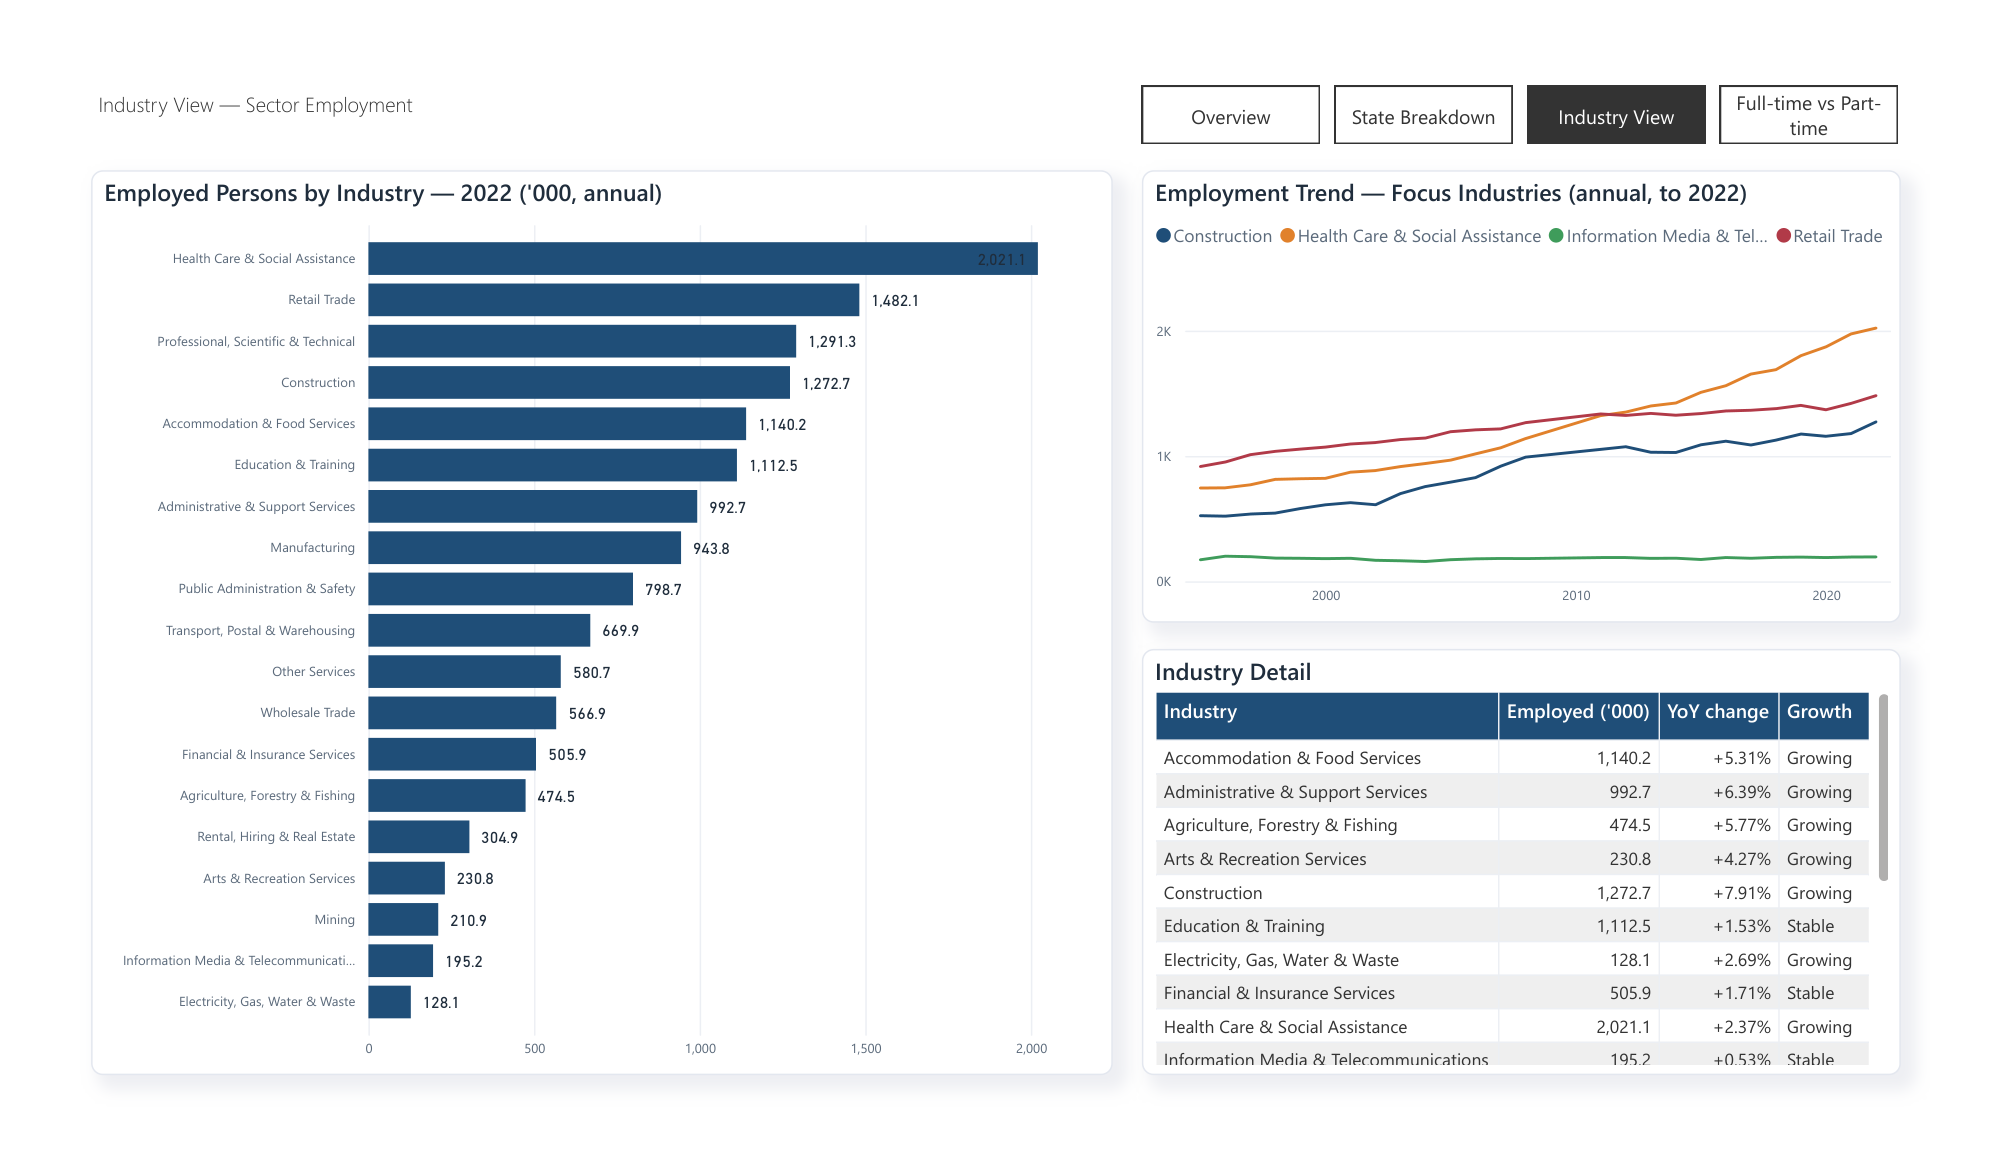
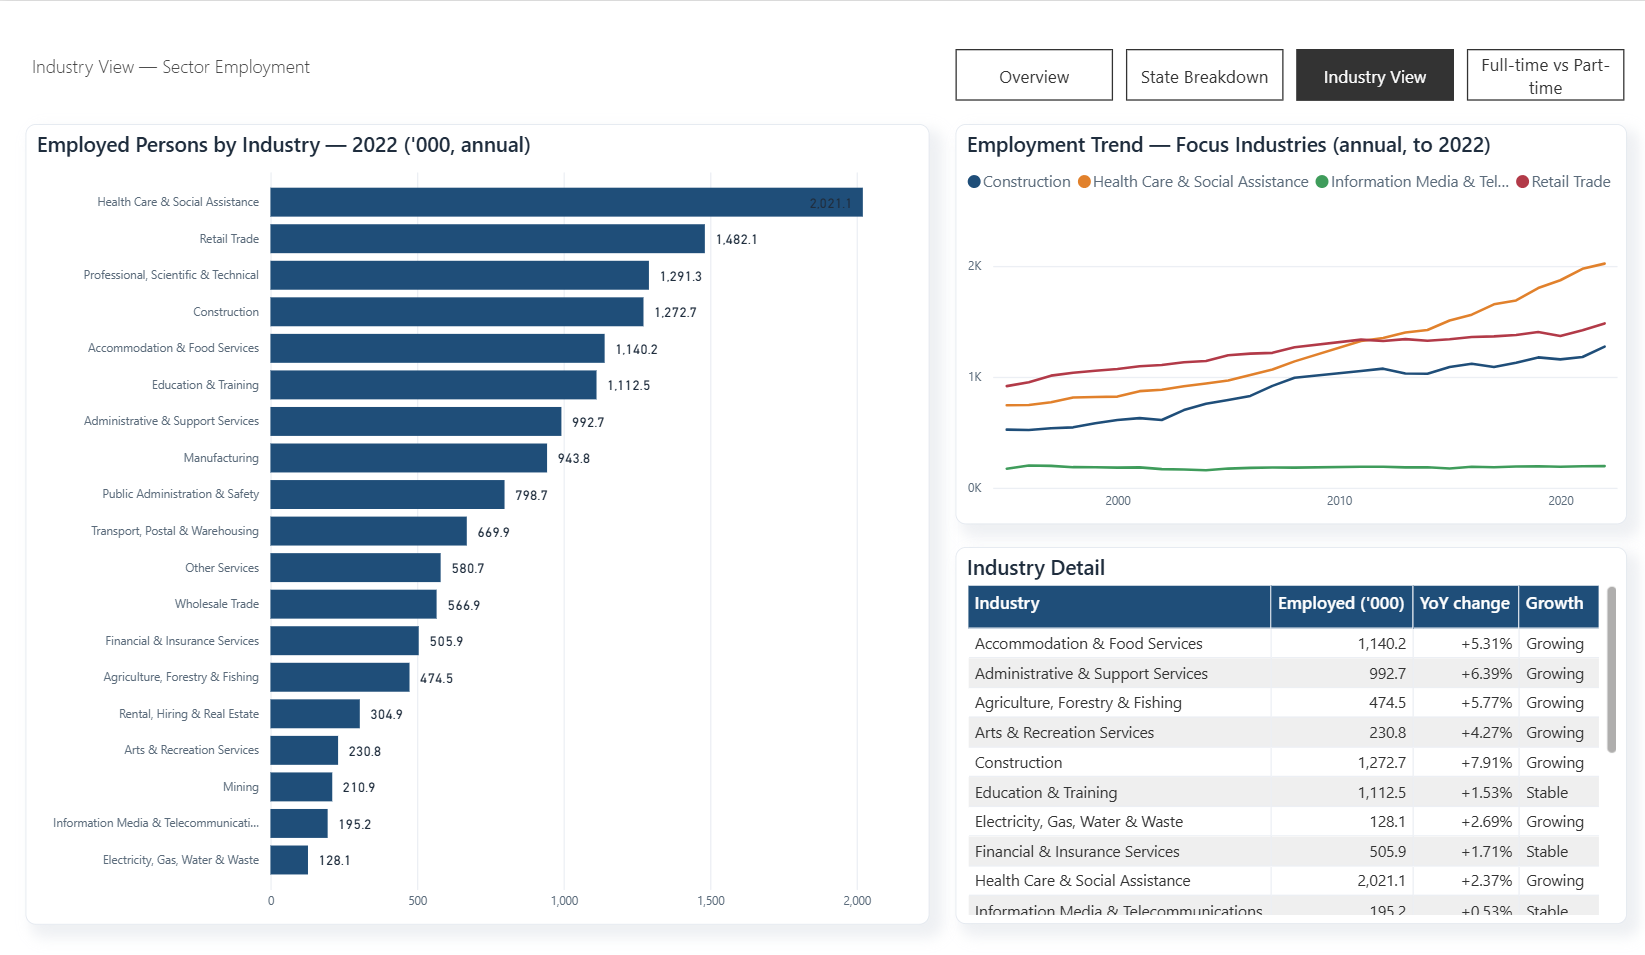
Add the real Industry View capture from the rebuilt report
Replaces the v1 screenshot with one taken from the report running against the
local dbt-built warehouse, and gives it a place in the case study rather than
leaving it in the gallery only. It sits with the vintage discussion, because
the screenshot is the evidence for it: the chart titles read "2022 ('000,
annual)" rather than just "Employed persons", so the vintage travels with the
number instead of living in a footnote nobody reads.

Health Care and Social Assistance at 2.02 million, well clear of Retail Trade.

diff --git a/src/app/data/case-labour-market.ts b/src/app/data/case-labour-market.ts
@@ -151,6 +151,13 @@ export const labourMarket: CaseStudyProps = {
     { t: 'note', text: 'I confirmed against the live API that the industry series is stale at source, not on my disk, so re-running the extract does not help. The monthly Labour Force survey carries no industry dimension at all, so there is nowhere else to get it. Rather than quietly mix a 2022 series into current numbers, every industry title carries its own vintage. Knowing a source’s recency before you build on it matters more than any chart.' },
     {
       t: 'fig',
+      src: '/projects/labour-market/pbi-industry.png',
+      page: 'Page 3, Industry View',
+      alt: 'Power BI Industry View page: all 19 ANZSIC divisions ranked by employed persons for 2022, a focus-industries trend line for Construction, Health Care, Information Media and Retail Trade, and an industry detail table with year-on-year change and a growth classification.',
+      caption: 'Health Care and Social Assistance at 2.02 million, well clear of Retail Trade. Note the chart titles: they read "2022 (’000, annual)" rather than just "Employed persons", so the vintage travels with the number instead of being buried in a footnote.',
+    },
+    {
+      t: 'fig',
       src: '/projects/labour-market/pbi-overview.png',
       page: 'Page 1, Overview',
       alt: 'Power BI Overview page: national unemployment rate trend back to 1978, employed persons trend, and KPI cards for unemployment rate, employment, participation and employment-to-population ratio.',

diff --git a/src/app/data/data-case-studies.ts b/src/app/data/data-case-studies.ts
@@ -89,8 +89,8 @@ export const entries: DataEntry[] = [
       },
       {
         src: '/projects/labour-market/pbi-industry.png',
-        alt: 'Power BI page breaking employment down by industry.',
-        caption: 'Industry breakdown, annual to 2022, labelled with its vintage on purpose.',
+        alt: 'Power BI Industry View page: 19 ANZSIC divisions ranked by employment for 2022, a focus-industries trend line, and an industry detail table.',
+        caption: 'Industry breakdown. Annual to 2022, and every title says so rather than hiding it in a footnote.',
       },
     ],
   },
